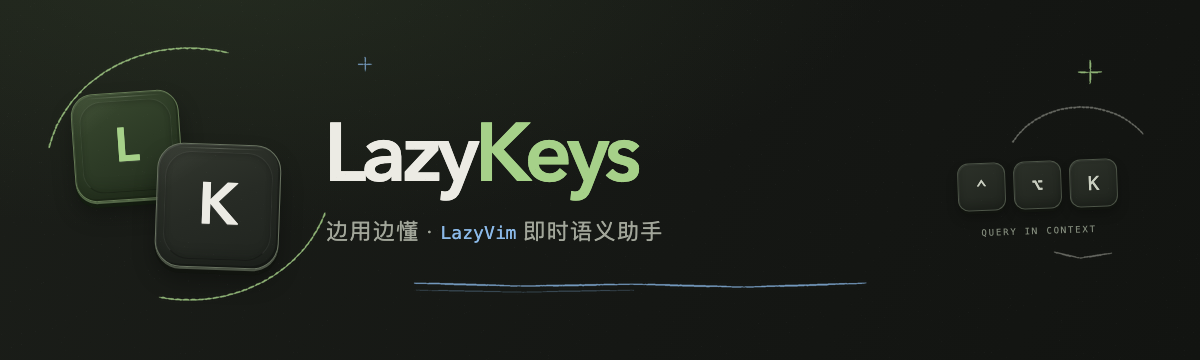
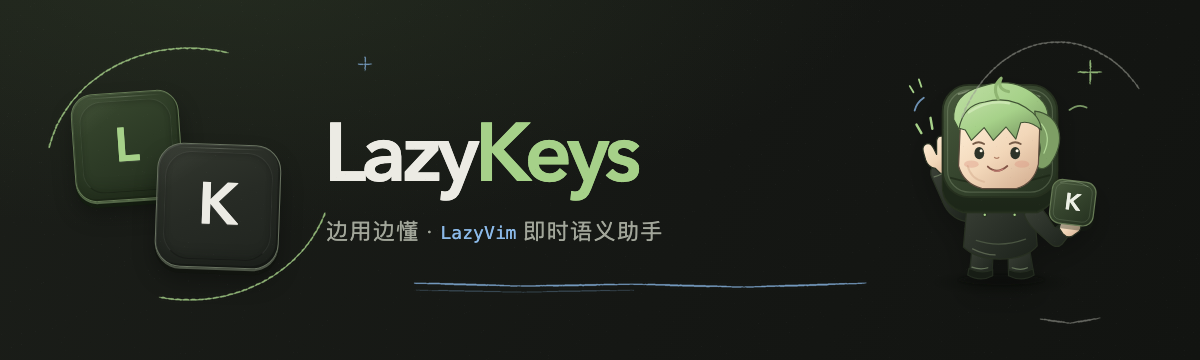
feat: refine README artwork and CI setup

diff --git a/docs/assets/lazykeys-logo.html b/docs/assets/lazykeys-logo.html
@@ -166,41 +166,12 @@
         letter-spacing: 0;
       }
 
-      .shortcut {
-        display: grid;
-        grid-template-columns: repeat(3, 48px);
-        gap: 8px;
-        margin: 36px 10px 0 auto;
-        transform: rotate(-2deg);
-      }
-
-      .shortcut kbd {
-        display: grid;
-        width: 48px;
-        height: 48px;
-        place-items: center;
-        border: 1px solid #4d5548;
-        border-radius: 11px;
-        color: #c9cec0;
-        background: linear-gradient(155deg, #2c3129, #20241e);
-        box-shadow:
-          inset 1px 1px 0 #ffffff10,
-          inset 0 -4px 7px #0d100c4d,
-          0 3px 0 #11140f,
-          0 7px 12px #00000038;
-        font-family: var(--mono);
-        font-size: 19px;
-        font-weight: 500;
-      }
-
-      .shortcut-label {
-        grid-column: 1 / -1;
-        margin-top: 9px;
-        color: #7f8778;
-        font-family: var(--mono);
-        font-size: 9px;
-        letter-spacing: 1.8px;
-        text-align: center;
+      .mascot {
+        width: 256px;
+        height: 256px;
+        margin: 0 0 0 auto;
+        object-fit: contain;
+        filter: drop-shadow(0 12px 14px #00000038);
       }
 
       .icon {
@@ -272,10 +243,7 @@
           <p class="product">Lazy<span>Keys</span></p>
           <p class="tagline">边用边懂 · <strong>LazyVim</strong> 即时语义助手</p>
         </div>
-        <div class="shortcut">
-          <kbd>⌃</kbd><kbd>⌥</kbd><kbd>K</kbd>
-          <span class="shortcut-label">QUERY IN CONTEXT</span>
-        </div>
+        <img class="mascot" src="lazykeys-mascot.svg" alt="">
       </section>
       <section class="icon" id="icon" aria-hidden="true">
         <div class="keys">

diff --git a/scripts/generate_brand_assets.py b/scripts/generate_brand_assets.py
@@ -80,8 +80,8 @@ def decorate_banner(base):
     stroke(arc_points((46, 48, 332, 300), 18, 102), GREEN, 2)
     stroke([(414, 283), (520, 286), (632, 284), (744, 287), (866, 283)], BLUE, 2)
     stroke([(416, 290), (524, 292), (634, 290)], (139, 185, 232, 85), 1)
-    stroke(arc_points((1002, 107, 1160, 248), 210, 322), MUTED, 2)
-    stroke([(1054, 252), (1080, 258), (1112, 253)], MUTED, 2)
+    stroke(arc_points((952, 42, 1164, 304), 205, 320), MUTED, 2)
+    stroke([(1040, 319), (1070, 323), (1100, 318)], MUTED, 2)
     four_point_mark(draw, 1090 * scale, 72 * scale, 12 * scale, GREEN, 2 * scale, rng)
     four_point_mark(draw, 365 * scale, 64 * scale, 7 * scale, BLUE, 1.5 * scale, rng)
 

diff --git a/README.md b/README.md
@@ -27,12 +27,20 @@ _Learn LazyVim in context: Chinese command search, a non-intrusive overlay, and 
 
 ## 主要功能
 
-- **看懂当前操作现场**：跟随 Neovim 模式、未完成前缀和插件页面，显示下一步、退出方式与分段助记；浮窗不抢焦点，支持置顶和鼠标穿透。
-- **用中文查命令**：按功能、真实按键、别名或助记搜索，查看用途、模式、结果与副作用；可为内置命令保存自己的中文别名和助记。
-- **复制或安全执行**：复制真实按键说明，或发送到当前 Neovim；修改类操作可要求确认，破坏性操作始终需要确认。
-- **独立管理 LazyVim 环境**：通过 `NVIM_APPNAME` 隔离 Profile，不修改现有 `~/.config/nvim`；支持安装、启动、复制、重命名、回滚和导出。
-- **按你的习惯工作**：自定义查询与浮窗快捷键、显示策略、字号、透明度、宽度和结果显示时长。
-- **尊重本地隐私**：查询在本地完成，不使用全局键盘监听；Insert 文本、命令参数和搜索内容不会发送或保存。
+<table>
+  <tr>
+    <td width="50%"><img src="docs/assets/icons/context.svg" width="24" height="24" alt=""> <strong>看懂当前操作现场</strong><br>跟随 Neovim 模式、未完成前缀和插件页面，显示下一步、退出方式与分段助记；浮窗不抢焦点，支持置顶和鼠标穿透。</td>
+    <td width="50%"><img src="docs/assets/icons/search.svg" width="24" height="24" alt=""> <strong>用中文查命令</strong><br>按功能、真实按键、别名或助记搜索，查看用途、模式、结果与副作用；可为内置命令保存自己的中文别名和助记。</td>
+  </tr>
+  <tr>
+    <td><img src="docs/assets/icons/execute.svg" width="24" height="24" alt=""> <strong>复制或安全执行</strong><br>复制真实按键说明，或发送到当前 Neovim；修改类操作可要求确认，破坏性操作始终需要确认。</td>
+    <td><img src="docs/assets/icons/profiles.svg" width="24" height="24" alt=""> <strong>独立管理 LazyVim 环境</strong><br>通过 <code>NVIM_APPNAME</code> 隔离 Profile，不修改现有 <code>~/.config/nvim</code>；支持安装、启动、复制、重命名、回滚和导出。</td>
+  </tr>
+  <tr>
+    <td><img src="docs/assets/icons/settings.svg" width="24" height="24" alt=""> <strong>按你的习惯工作</strong><br>自定义查询与浮窗快捷键、显示策略、字号、透明度、宽度和结果显示时长。</td>
+    <td><img src="docs/assets/icons/privacy.svg" width="24" height="24" alt=""> <strong>尊重本地隐私</strong><br>查询在本地完成，不使用全局键盘监听；Insert 文本、命令参数和搜索内容不会发送或保存。</td>
+  </tr>
+</table>
 
 ## 第一次使用
 
@@ -81,7 +89,7 @@ npm run tauri build -- --target aarch64-apple-darwin
 bash scripts/package-macos.sh 0.1.0
 ```
 
-品牌源文件使用纯 HTML/CSS，位于 `docs/assets/lazykeys-logo.html`；`scripts/generate_brand_assets.py` 使用 Pillow 为渲染结果添加可复现的手绘装饰，不参与 App 构建。
+品牌源文件使用纯 HTML/CSS，位于 `docs/assets/lazykeys-logo.html`；`scripts/generate_brand_assets.py` 使用 Pillow 为渲染结果添加可复现的手绘装饰，不参与 App 构建。看板娘与功能图标保留为可编辑 SVG，位于 `docs/assets/lazykeys-mascot.svg` 和 `docs/assets/icons/`。
 
 ## 发布
 
